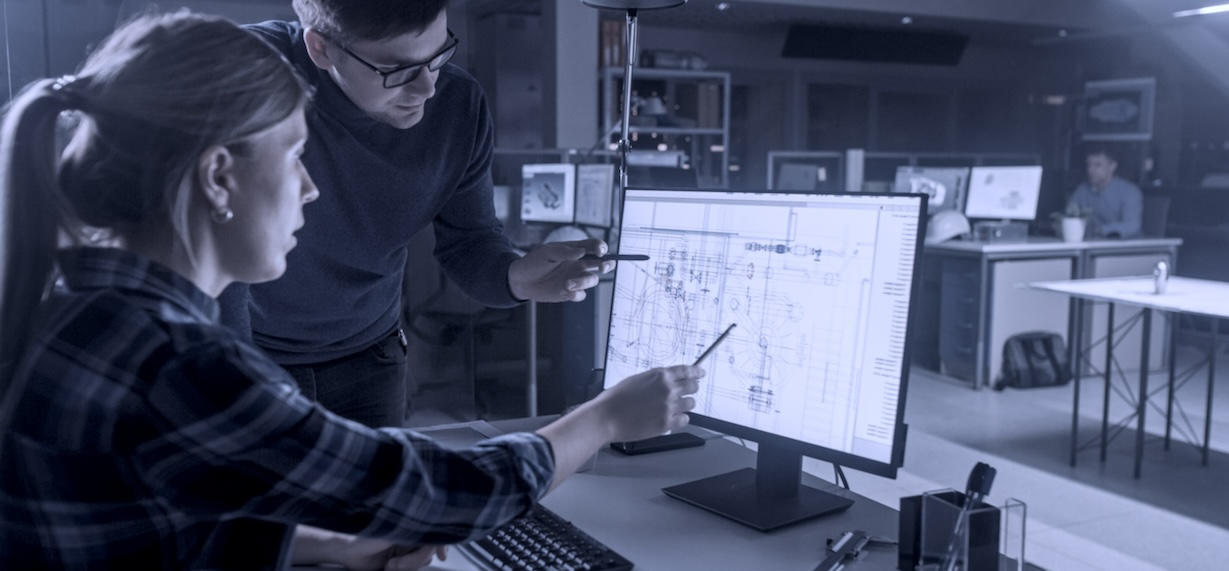
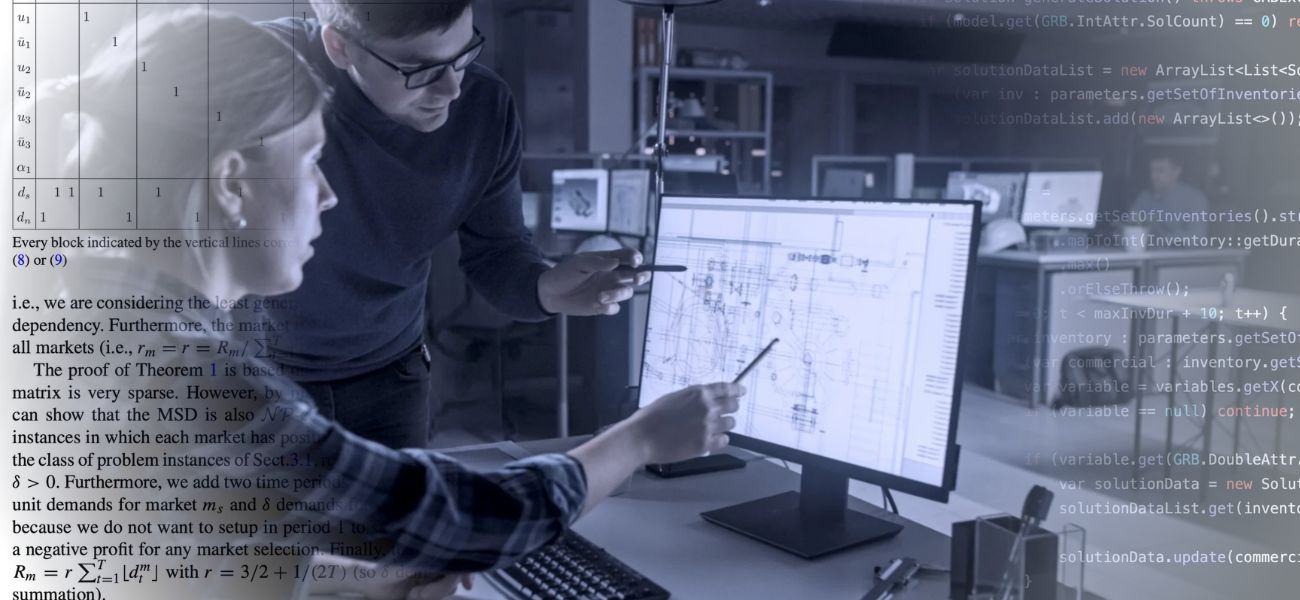
hero updates

diff --git a/_sass/3-modules/_hero.scss b/_sass/3-modules/_hero.scss
@@ -18,8 +18,8 @@
       object-fit: cover;
       overflow: hidden;
       background-color: var(--background-alt-color);
-      -webkit-mask-image: linear-gradient(to bottom, rgba(0, 0, 0, 0.05), rgba(0, 0, 0, 0.7));
-              mask-image: linear-gradient(to bottom, rgba(0, 0, 0, 0.05), rgba(0, 0, 0, 0.7));
+      -webkit-mask-image: linear-gradient(to bottom, rgba(0, 0, 0, 0.2), rgba(0, 0, 0, 0.9));
+      mask-image: linear-gradient(to bottom, rgba(0, 0, 0, 0.2), rgba(0, 0, 0, 0.9));
       -webkit-mask-size: 100%;
               mask-size: 100%;
       -webkit-mask-repeat: no-repeat;
@@ -29,8 +29,8 @@
     .hero__wrapper {
       position: absolute;
       inset: 0;
-      -webkit-backdrop-filter: blur(4px) brightness(0.85);
-              backdrop-filter: blur(4px) brightness(0.85);
+      -webkit-backdrop-filter: blur(1px) brightness(0.85);
+              backdrop-filter: blur(1px) brightness(0.85);
 
       .hero__content {
         position: absolute;

diff --git a/_sass/0-settings/_color-scheme.scss b/_sass/0-settings/_color-scheme.scss
@@ -45,12 +45,12 @@
 }
 
 :root[dark] {
-  --primary-color: #3F51B5;
+  --primary-color: #002776;
   --white: #fff;
   --light-gray: #f0f0f0;
   --gray: #9e9e9e;
   --dark: #111016;
-  --logo-color: #3F51B5;
+  --logo-color: #002776;
 
   // Background Color
   --background-color: var(--dark);
